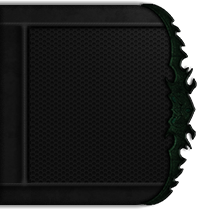
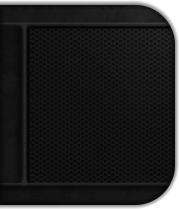
Added more artwork to the changelog (intend to make all sections have the same basic appearance)

diff --git a/css/editor.css b/css/editor.css
@@ -119,7 +119,8 @@ section{
 	height:240px;
     position:relative;
     top:603px;
-	background-color:rgba(0,0,0,1.0);
+    border:none;
+    background-color:transparent;
     overflow:visible;
 }
 
@@ -127,23 +128,23 @@ section{
 	width:600px;
 	height:240px;
     position:relative;
-    margin:0 auto;
-	background-color:rgba(120,120,120,1.0);
+    padding:5px 9px;
+    margin:-5px -7px;
+	background:url("../images/changelogBackground.png") no-repeat center;
     z-index:2;
 }
 
 #changelogContainer header{
-	width:600px;
+	width:603px;
 	height:20px;
-	background-color:rgba(0,255,0,1.0);
 }
 
 #changelogOptions{
-	width:197px;
+	width:179px;
 	height:209px;
 	position:absolute;
-	left:440px;
-	top:20px;
+	left:443px;
+	top:33px;
     background:url("../images/slideOutMenu.png") no-repeat center;
 	transition: left 0.35s ease-out;
 	-webkit-transition: left 0.35s ease-out;
@@ -151,6 +152,14 @@ section{
 
 #changelogOptions.translate{
 	left:600px;
+}
+
+#changelogOptionsOpen{
+    width:58px;
+    height:209px;
+    position:absolute;
+    left:140px;
+    background:url("../images/slideOut.png") no-repeat center;
 }
 
 #changelogOptions .toggle{
@@ -173,6 +182,7 @@ section{
     top:93px;
     left:171px;
     background:url("../images/slideOutOpen_normal.png") no-repeat center;
+    z-index:10;
     transition: left,opacity 0.35s ease-out;
 	-webkit-transition: left,opacity 0.35s ease-out;
 }

diff --git a/terrain.html b/terrain.html
@@ -78,6 +78,7 @@
                 <div id="changelogOptions">
                     <div class="toggle left"></div>
                     <div class="toggle right"></div>
+                    <div id="changelogOptionsOpen"></div>
                     <div id="changelogOptionsContent">
                         <p><input id="changelogEventNumber" class="changelog" name="eventNumber" type="checkbox" disabled="true" checked>Event #</p>
                         <p><input id="changelogLineNumber" class="changelog" name="lineNumber" type="checkbox" disabled="true" checked>Line #</p>
